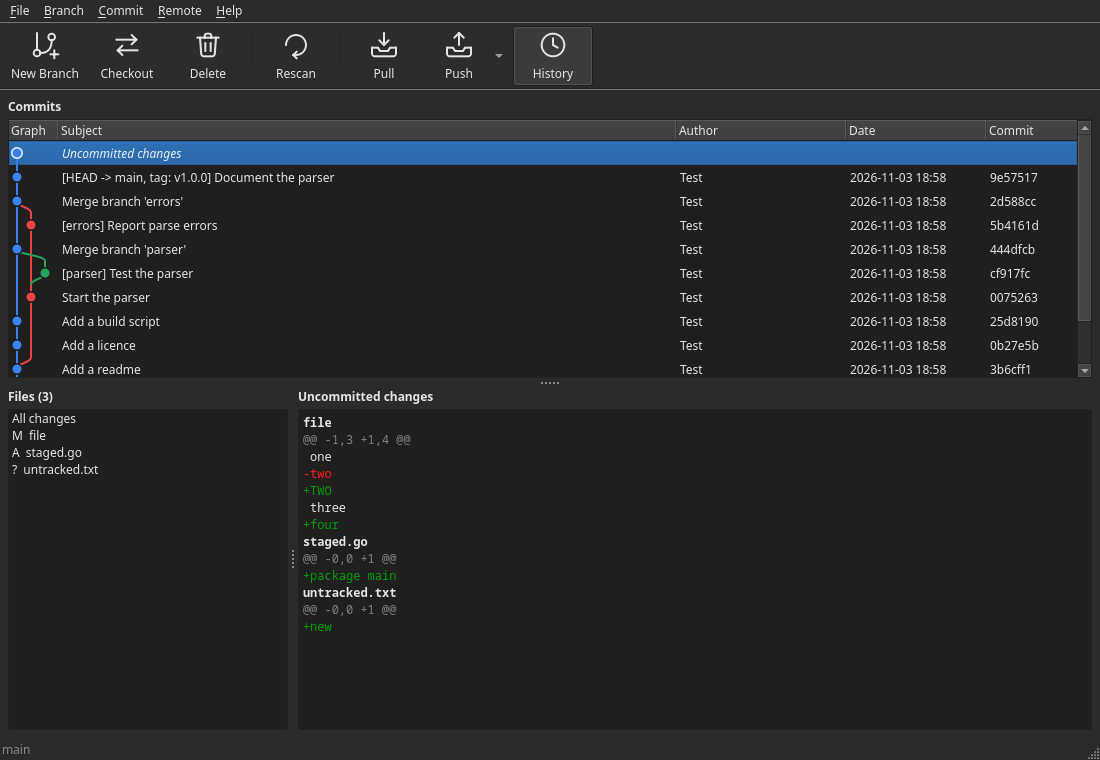
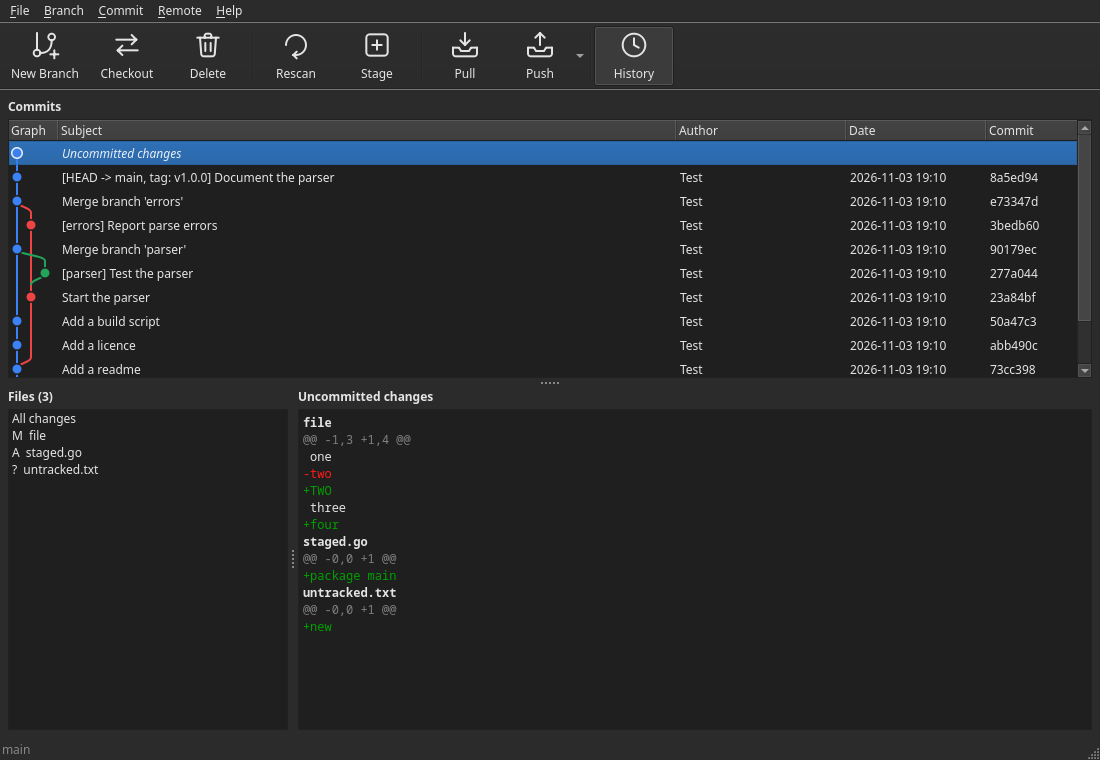
Added stage button to the toolbar.

diff --git a/internal/ui/window.go b/internal/ui/window.go
@@ -54,6 +54,10 @@ type Window struct {
 	unstageAll, commit, push, forcePush, abortMerge, open *qt.QAction
 	newBranchAction, checkoutAction, deleteAction, pull   *qt.QAction
 	showHistory                                           *qt.QAction
+	// stageButton is what the Stage buttons do: stage everything listed, or
+	// unstage it all if it is all staged, as stageIcons, for each, show.
+	stageButton *qt.QAction
+	stageIcons  [2]*qt.QIcon
 	// pushButton is what the Push buttons do: push, forcing it if Force push
 	// is ticked, where the Remote menu's Push, on Ctrl+P, never forces.
 	pushButton *qt.QAction
@@ -186,6 +190,9 @@ func (w *Window) makeToolBar() {
 	w.checkoutAction.SetIconText("Checkout")
 	w.deleteAction.SetIconText("Delete")
 	w.showHistory.SetIconText("History")
+	w.stageIcons = [2]*qt.QIcon{toolIcon(stageShape), toolIcon(unstageShape)}
+	w.stageButton.SetIcon(w.stageIcons[0])
+	w.stageButton.SetIconText("Stage")
 
 	w.toolbar = qt.NewQToolBar4("Buttons", w.QWidget)
 	w.toolbar.SetMovable(false)
@@ -199,7 +206,7 @@ func (w *Window) makeToolBar() {
 	noTips.OnEventFilter(func(super func(*qt.QObject, *qt.QEvent) bool, watched *qt.QObject, event *qt.QEvent) bool {
 		return event.Type() == qt.QEvent__ToolTip || super(watched, event)
 	})
-	for _, a := range []*qt.QAction{w.newBranchAction, w.checkoutAction, w.deleteAction, nil, w.rescan, nil, w.pull, w.pushButton, nil, w.showHistory} {
+	for _, a := range []*qt.QAction{w.newBranchAction, w.checkoutAction, w.deleteAction, nil, w.rescan, w.stageButton, nil, w.pull, w.pushButton, nil, w.showHistory} {
 		if a == nil {
 			w.toolbar.AddSeparator()
 			continue
@@ -285,6 +292,14 @@ func (w *Window) makeMenus() {
 	w.unstageAll = w.action(commit, "Unstage &All", "Ctrl+Shift+U", func() { w.unstageChanges(w.status.Staged) })
 	commit.AddSeparator()
 	w.commit = w.action(commit, "&Commit", "Ctrl+Return", w.commitChanges)
+	w.stageButton = qt.NewQAction5(stageText, w.QObject)
+	w.stageButton.OnTriggered(func() {
+		if w.allStaged() {
+			w.unstageAll.Trigger()
+		} else {
+			w.stageAll.Trigger()
+		}
+	})
 
 	remote := bar.AddMenuWithTitle("&Remote")
 	fetch := w.action(remote, "&Fetch", "Ctrl+Shift+F", func() { w.run("Fetch", w.repo.Fetch, nil) })
@@ -310,13 +325,7 @@ func (w *Window) makeMenus() {
 func (w *Window) connect() {
 	t := w.tab
 	t.rescan.OnClicked(w.rescan.Trigger)
-	t.stage.OnClicked(func() {
-		if w.allStaged() {
-			w.unstageAll.Trigger()
-		} else {
-			w.stageAll.Trigger()
-		}
-	})
+	t.stage.OnClicked(w.stageButton.Trigger)
 	t.commit.OnClicked(w.commit.Trigger)
 	t.push.OnClicked(w.pushButton.Trigger)
 	t.force.OnToggled(func(on bool) {
@@ -395,13 +404,24 @@ func (w *Window) updateActions() {
 	}
 
 	t.rescan.SetEnabled(w.rescan.IsEnabled())
-	if w.allStaged() {
-		t.stage.SetText(unstageText)
-		t.stage.SetEnabled(w.unstageAll.IsEnabled())
+	// Both Stage buttons unstage instead when everything is staged.
+	unstage := w.allStaged()
+	if unstage {
+		w.stageButton.SetEnabled(w.unstageAll.IsEnabled())
 	} else {
-		t.stage.SetText(stageText)
-		t.stage.SetEnabled(w.stageAll.IsEnabled())
+		w.stageButton.SetEnabled(w.stageAll.IsEnabled())
 	}
+	if (w.stageButton.IconText() == "Unstage") != unstage {
+		text, icon := stageText, w.stageIcons[0]
+		if unstage {
+			text, icon = unstageText, w.stageIcons[1]
+		}
+		t.stage.SetText(text)
+		w.stageButton.SetText(text)
+		w.stageButton.SetIconText(strings.Fields(text)[0])
+		w.stageButton.SetIcon(icon)
+	}
+	t.stage.SetEnabled(w.stageButton.IsEnabled())
 	t.commit.SetEnabled(w.commit.IsEnabled())
 	t.push.SetEnabled(w.pushButton.IsEnabled())
 	t.force.SetEnabled(idle)

diff --git a/internal/ui/ui_test.go b/internal/ui/ui_test.go
@@ -165,7 +165,7 @@ func TestLayout(t *testing.T) {
 				t.Errorf("%q has no icon", a.IconText())
 			}
 		}
-		if want := []string{"New Branch", "Checkout", "Delete", "|", "Rescan", "|", "Pull", "Push", "|", "History"}; !slices.Equal(buttons, want) {
+		if want := []string{"New Branch", "Checkout", "Delete", "|", "Rescan", "Stage", "|", "Pull", "Push", "|", "History"}; !slices.Equal(buttons, want) {
 			t.Errorf("buttons %q", buttons)
 		}
 		if size := w.toolbar.IconSize(); size.Width() != 32 || size.Height() != 32 || w.toolbar.ToolButtonStyle() != qt.ToolButtonTextUnderIcon || w.toolbar.IsMovable() {
@@ -368,7 +368,11 @@ func TestStageButtonUnstagesWhenAllStaged(t *testing.T) {
 		if w.tab.stage.Text() != unstageText || !w.tab.stage.IsEnabled() {
 			t.Errorf("button %q, enabled %v", w.tab.stage.Text(), w.tab.stage.IsEnabled())
 		}
-		w.tab.stage.Click()
+		// The toolbar's says the same, and does the same.
+		if w.stageButton.IconText() != "Unstage" || !w.stageButton.IsEnabled() {
+			t.Errorf("toolbar %q, enabled %v", w.stageButton.IconText(), w.stageButton.IsEnabled())
+		}
+		w.stageButton.Trigger()
 	})
 	waitFor(t, "all unstaged", func() bool { return w.idleWith(2, 0) })
 
@@ -379,10 +383,10 @@ func TestStageButtonUnstagesWhenAllStaged(t *testing.T) {
 	})
 	waitFor(t, "one of each", func() bool { return w.idleWith(1, 1) })
 	on(func() {
-		if w.tab.stage.Text() != stageText {
-			t.Errorf("button %q", w.tab.stage.Text())
+		if w.tab.stage.Text() != stageText || w.stageButton.IconText() != "Stage" {
+			t.Errorf("buttons %q, %q", w.tab.stage.Text(), w.stageButton.IconText())
 		}
-		w.tab.stage.Click()
+		w.stageButton.Trigger()
 	})
 	waitFor(t, "all staged again", func() bool { return w.idleWith(0, 2) })
 
@@ -393,8 +397,8 @@ func TestStageButtonUnstagesWhenAllStaged(t *testing.T) {
 	})
 	waitFor(t, "the commit", func() bool { return w.idleWith(0, 0) })
 	on(func() {
-		if w.tab.stage.Text() != stageText || w.tab.stage.IsEnabled() {
-			t.Errorf("button %q, enabled %v", w.tab.stage.Text(), w.tab.stage.IsEnabled())
+		if w.tab.stage.Text() != stageText || w.tab.stage.IsEnabled() || w.stageButton.IconText() != "Stage" || w.stageButton.IsEnabled() {
+			t.Errorf("buttons %q, %q, enabled %v, %v", w.tab.stage.Text(), w.stageButton.IconText(), w.tab.stage.IsEnabled(), w.stageButton.IsEnabled())
 		}
 	})
 }
@@ -733,6 +737,21 @@ func TestFirstTextFieldHasTheFocus(t *testing.T) {
 	t.Cleanup(func() { on(func() { d.Hide(); d.DeleteLater() }) })
 	waitFor(t, "the dialog to be active", func() bool { return d.IsActiveWindow() })
 	waitFor(t, "the name to have the focus", name.HasFocus)
+}
+
+// TestCheckoutFocusesTheBranches checks that the checkout dialog opens with the
+// list of branches focused, to choose one by keyboard straight away.
+func TestCheckoutFocusesTheBranches(t *testing.T) {
+	var d *formDialog
+	var branch *qt.QComboBox
+	on(func() {
+		d, branch, _ = newCheckoutDialog(nil, "main", []string{"main", "topic"}, nil, nil)
+		d.Show()
+		d.ActivateWindow()
+	})
+	t.Cleanup(func() { on(func() { d.Hide(); d.DeleteLater() }) })
+	waitFor(t, "the dialog to be active", func() bool { return d.IsActiveWindow() })
+	waitFor(t, "the branches to have the focus", branch.HasFocus)
 }
 
 // TestFormFieldsFillTheDialog checks that a dialog's fields are as wide as it

diff --git a/internal/ui/dialogs.go b/internal/ui/dialogs.go
@@ -15,8 +15,9 @@ type formDialog struct {
 	// fieldsValid are what say whether each field can be used.
 	fieldsValid []func() bool
 	// firstText is the first field of text, which has the focus when the
-	// dialog is shown.
+	// dialog is shown, unless focus says another does.
 	firstText *qt.QLineEdit
+	focus     *qt.QWidget
 	// finished says that the dialog has been answered and is going, so that
 	// what comes back to it from the background later has nowhere to go.
 	finished bool
@@ -39,7 +40,10 @@ func newFormDialog(parent *qt.QWidget, title string) *formDialog {
 	// in the order widgets are made.
 	d.OnShowEvent(func(super func(*qt.QShowEvent), event *qt.QShowEvent) {
 		super(event)
-		if d.firstText != nil {
+		switch {
+		case d.focus != nil:
+			d.focus.SetFocus()
+		case d.firstText != nil:
 			d.firstText.SetFocus()
 		}
 	})

diff --git a/internal/ui/toolicons.go b/internal/ui/toolicons.go
@@ -81,6 +81,20 @@ var (
 		p.LineTo2(10, 19.5)
 		p.LineTo2(12.5, 22)
 	}
+	// stageShape is a box with a plus, for adding to the index.
+	stageShape iconShape = func(p *qt.QPainterPath) {
+		p.AddRoundedRect2(4, 4, 16, 16, 2.5, 2.5)
+		p.MoveTo2(12, 8.5)
+		p.LineTo2(12, 15.5)
+		p.MoveTo2(8.5, 12)
+		p.LineTo2(15.5, 12)
+	}
+	// unstageShape is a box with a minus, for taking out of the index.
+	unstageShape iconShape = func(p *qt.QPainterPath) {
+		p.AddRoundedRect2(4, 4, 16, 16, 2.5, 2.5)
+		p.MoveTo2(8.5, 12)
+		p.LineTo2(15.5, 12)
+	}
 	// pullShape is an arrow down into a tray.
 	pullShape iconShape = func(p *qt.QPainterPath) {
 		p.MoveTo2(12, 3)

diff --git a/internal/ui/operations.go b/internal/ui/operations.go
@@ -230,6 +230,7 @@ func newCheckoutDialog(parent *qt.QWidget, current string, local, remote []strin
 	d := newFormDialog(parent, "Checkout")
 	branch := d.addChoice("Branch", local)
 	branch.SetCurrentIndex(max(branch.FindText(current), 0))
+	d.focus = branch.QWidget
 	withRemote := qt.NewQCheckBox3("Include remote branches")
 	d.form.AddRowWithWidget(withRemote.QWidget)
 	note := qt.NewQLabel2()

diff --git a/CLAUDE.md b/CLAUDE.md
@@ -35,7 +35,7 @@ A git GUI in Go with Qt 6 through the miqt bindings, modelled on `git gui`. `pla
 * Diffs colour text, not backgrounds (the user's choice): added and removed lines take their colours as they are, through char formats (`diffView.paint`). Nothing in a diff has a background.
 * The settings dialog is tabbed, with one tab so far, User interface (an Appearance section, then History, in the same form so that the fields line up, with how many commits are read at a time, then a Colours table of Name and Colour, as `../prism` has it, with bold section rows and a filled button for each colour). Code font is one row under Appearance, as `../apemail` has it: any font of the system (no monospaced filter: the user wants any), the size inline, and a Default button. The code's font and size (`CodeFont`, `CodeFontSize`) apply to both diffs and the commit message; empty or 0 follows the system's fixed width font.
 * Themes: light and dark are Fusion with our own palette; following the system restores the desktop's style and an empty palette. `applyTheme` is not called at startup when following the system.
-* Checkout offers every local branch, in order of name ignoring case (`byName`), the current one chosen (OK is disabled while it is, as there is nothing to do, and it is chosen again when a remote branch chosen goes from the list), and the remote ones after them, in order too, only while its Include remote branches checkbox is ticked (`newCheckoutDialog`, unticked to start with), keeping the branch chosen if it is still there. Ticking it the first time fetches (`git fetch --all`) in the background, with the list and OK disabled and Fetching… said, then lists the remote branches; a failed fetch says why and lists those already known. The dialog is marked `finished` once answered, so that a fetch ending later touches nothing, and a cancelled dialog that fetched rescans. A remote branch is checked out as a new local branch tracking it. Form dialogs' fields grow to the dialog's width (`AllNonFixedFieldsGrow`), as some styles keep them narrow, and the first field of text has the focus when one is shown (`formDialog.firstText`), as it would otherwise go to OK, made first.
+* Checkout offers every local branch, in order of name ignoring case (`byName`), the current one chosen (OK is disabled while it is, as there is nothing to do, and it is chosen again when a remote branch chosen goes from the list), and the remote ones after them, in order too, only while its Include remote branches checkbox is ticked (`newCheckoutDialog`, unticked to start with), keeping the branch chosen if it is still there. Ticking it the first time fetches (`git fetch --all`) in the background, with the list and OK disabled and Fetching… said, then lists the remote branches; a failed fetch says why and lists those already known. The dialog is marked `finished` once answered, so that a fetch ending later touches nothing, and a cancelled dialog that fetched rescans. A remote branch is checked out as a new local branch tracking it. Form dialogs' fields grow to the dialog's width (`AllNonFixedFieldsGrow`), as some styles keep them narrow, and the first field of text has the focus when one is shown (`formDialog.firstText`), as it would otherwise go to OK, made first, unless `formDialog.focus` names another: Checkout focuses its list of branches.
 * Branch > Discard All Changes runs `git reset --hard HEAD` then `git clean -f -d` (`git.DiscardChanges`; `read-tree --empty` on a branch with no commits), keeping ignored files and commits, and abandoning a merge. It always asks first, No being the default, counting files put back and new files (untracked or newly staged) deleted. It is enabled only with something to discard, and not during a rebase, which has Abort Rebase.
 * Force push is `--force-with-lease`, always asks first, and the Force push checkbox clears after a successful push. Only the Push buttons, the toolbar's and the one beside the message, honour the checkbox (`pushButton`): the Remote menu's Push, on Ctrl+P, never forces (the user's choice), and Force Push… there always does.
 * The stage button stages everything listed, and is Unstage Changes when everything is staged (`allStaged`). The Stage Changes menu item only stages; Stage Selected and double-click stage only those chosen. Only one list has a selection at a time.
@@ -46,7 +46,7 @@ A git GUI in Go with Qt 6 through the miqt bindings, modelled on `git gui`. `pla
 * The graph is a column of the commit list, painted by an item delegate (`graphColumn`) from `graph.Layout`'s rows: only rows on show are painted, and it scrolls with the list. The layout is fed a page at a time. Each row's bottom edges must meet the next row's top edges, which `TestRowsJoinUp` checks on random histories. Changing lanes is an S curve leaving and arriving upright, so that lines run on smoothly between rows. The column is as wide as the lanes need, up to `graphMost`. A first parent already waited for in a lane to the right doesn't step over to it: its own lane waits too, and they meet at the parent, in the leftmost, so the graph doesn't wander right (`TestDoesNotWanderRight`).
 * Interactive rebase starts from a commit's context menu in the history (`commitMenu`), never the uncommitted row, and only on a clean work tree with no merge or rebase going. It covers that commit up to HEAD (`git.RebaseCommits`, which refuses a range holding a merge), and the dialog (`rebaseDialog`) edits the plan: a row per commit, oldest first, each with its own action combo of plain action names (an item widget; the wheel changes it only once it has focus, so that it scrolls the list; focusing or choosing in it makes its row the only one chosen (`chooseOnly`), so that the message below is that commit's). Below the list is only the chosen commit's message, full width, with no diff. The message is enabled only for a commit reworded, so that it is visibly greyed otherwise; Reword puts the cursor in it once the popup has closed (`editMessage`), and for a second after sends the focus back to it if it lands on the list or a combo (`reclaimFocus`), as on Wayland closing the popup puts the focus on the list later still. The dialog has no keyboard shortcuts (the user's choice). Rows are only dragged into order (`moved`). Qt only draws where a drag would go: the drop is handled in `dropAt` and ignored, so that Qt moves no rows, as it would delete the combos of rows it moved. Rows stay in place while the steps shown on them change. Qt delivers no drag events sent by hand, so tests call `dropAt`. The dialog's size is saved in the settings (`RebaseWidth`, `RebaseHeight`, 0 until first closed, when it opens at four fifths of the window) whenever it closes. Git is given the plan through `GIT_SEQUENCE_EDITOR`, a `cp` of a temporary file. Reword is a pick then an `exec` that amends with the new message, a line at a time through `printf`, each quoted for the shell (`git.todo`), as git would otherwise want an editor. Long messages are cut in the list (`subjectWidth`) and tooltips (`excerpt`), and shown whole in the message. A stop (`Status.Rebasing`, read from `rebase-merge` or `rebase-apply`) is told of by `Window.rebaseStep`, and handled from the Branch menu: Continue Rebase amends what is staged into a commit stopped at to edit, then continues. A dialog is marked `finished` before it is deleted, so that a timer firing late does nothing.
 * In the file lists, ctrl and shift select several files. Dragging keeps one file selected, moving with the pointer, so each is shown in the diff in turn (`newFileList`).
-* There are no tabs. Under the menus is a toolbar the size of apemail's (`makeToolBar`: 32 pixel icons, text under them, not movable, each button at least `toolButtonWidth` wide so that short names are not thin, and with no tooltips: Qt gives a button its action's name as one whatever is set, so an event filter takes the tooltip event). Push is a split button (`MenuButtonPopup`) whose own menu, not the Remote menu, has a checkable Force push option (`forceToggle`), ticked along with the Force push checkbox either way: while ticked, both Push buttons say Force Push and force (not Ctrl+P), and a successful push clears them all. Whether it is ticked is saved on closing (`ForcePush`) and ticked again on starting, once the window is joined up so that the option and buttons follow: New Branch, Checkout, Delete, a separator, Rescan, a separator, Pull, Push, a separator, History. Its buttons are the menus' own actions, with their icon text set to drop the ellipsis, so that they are enabled alike. History is a checkable action of its own, Show History in the Branch menu on Ctrl+H, that shows the history in place of the changes (`views`, a stacked widget; `setHistoryShown`, `historyShown`). The history is never shown by itself: it starts on the changes whatever the repository holds (the user's choice). The icons are drawn in code in apemail's style (`toolicons.go`: outlines on a grid of 24, 1.5 wide, round ends and joins, in the palette's text colour, disabled text where disabled, through an icon engine so that they follow the theme), so that Qt's SVG module is not needed.
+* There are no tabs. Under the menus is a toolbar the size of apemail's (`makeToolBar`: 32 pixel icons, text under them, not movable, each button at least `toolButtonWidth` wide so that short names are not thin, and with no tooltips: Qt gives a button its action's name as one whatever is set, so an event filter takes the tooltip event). Push is a split button (`MenuButtonPopup`) whose own menu, not the Remote menu, has a checkable Force push option (`forceToggle`), ticked along with the Force push checkbox either way: while ticked, both Push buttons say Force Push and force (not Ctrl+P), and a successful push clears them all. Whether it is ticked is saved on closing (`ForcePush`) and ticked again on starting, once the window is joined up so that the option and buttons follow: New Branch, Checkout, Delete, a separator, Rescan, Stage, a separator, Pull, Push, a separator, History. Stage is `stageButton`, which both Stage buttons trigger: it unstages everything, as Unstage with a minus icon, when everything is staged (`allStaged`). Its buttons are the menus' own actions, with their icon text set to drop the ellipsis, so that they are enabled alike. History is a checkable action of its own, Show History in the Branch menu on Ctrl+H, that shows the history in place of the changes (`views`, a stacked widget; `setHistoryShown`, `historyShown`). The history is never shown by itself: it starts on the changes whatever the repository holds (the user's choice). The icons are drawn in code in apemail's style (`toolicons.go`: outlines on a grid of 24, 1.5 wide, round ends and joins, in the palette's text colour, disabled text where disabled, through an icon engine so that they follow the theme), so that Qt's SVG module is not needed.
 * On starting, the repository opened is the one named on the command line, or else the one the current folder is in, or else none, waiting for File > Open Repository. The last one open is not remembered (the user's choice), and an older settings file's `repository` is ignored.
 * Window size, maximized state and the three splitters are saved on close, and the rebase dialog's size when it closes. Pane sizes are applied after the window is shown.
 * A window must not be deleted while a background command may still answer to it, so tests close windows without deleting them.

diff --git a/README.md b/README.md
@@ -20,7 +20,9 @@ repository the current folder is in, or else none, until you open one from
 **File > Open Repository…**. It doesn't remember the last one open.
 
 It starts on the changes. A toolbar under the menus has **New Branch**,
-**Checkout** and **Delete**, then **Rescan**, then **Pull** and **Push**, then
+**Checkout** and **Delete**, then **Rescan** and **Stage** (which is **Unstage**
+when everything is staged, as the button beside the message is), then **Pull**
+and **Push**, then
 **History**, which shows the history in place of the changes until it is
 pressed again, as **Branch > Show History** (`Ctrl+H`) does. The arrow beside **Push** opens an option to force the push,
 ticked along with the **Force push** checkbox.
